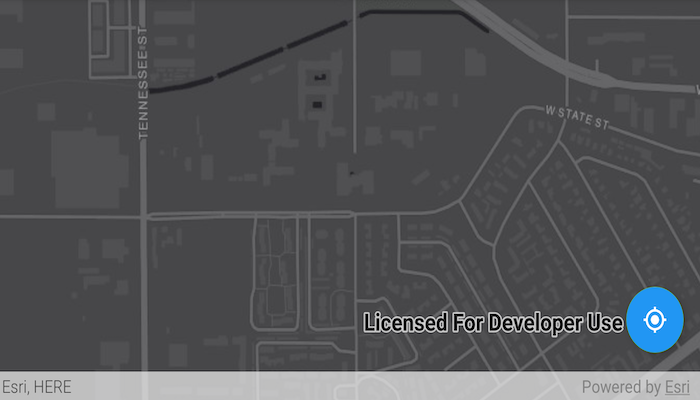
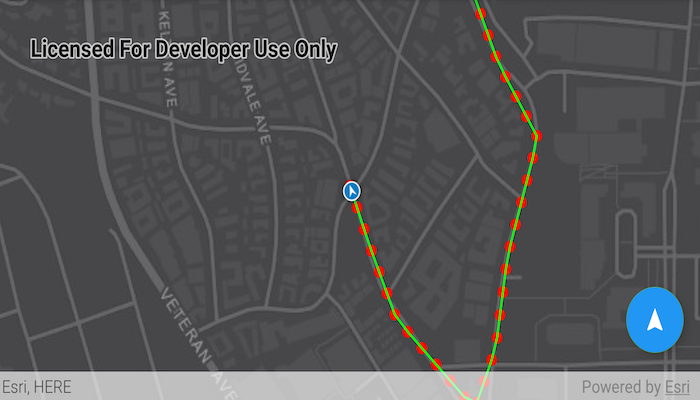
update metadata

diff --git a/kotlin/show-location-history/README.md b/kotlin/show-location-history/README.md
@@ -10,18 +10,19 @@ You can track device location history and display it as lines and points on the 
 
 ## How to use the sample
 
-Tap the floating action button to start tracking your location, which will appear as points on the map. A line will connect the points for easier visualization. Tap the button again to stop updating the location history.
+Tap the floating action button to start tracking your location, which will appear as points on the map. A line will connect the points for easier visualization. Tap the button again to stop updating the location history. This sample uses a simulated data source to allow the sample to be useful on desktop/non-mobile devices. To track a user's real position, use the `DefaultLocationDataSource` instead.
 
 ## How it works
 
 1. If necessary, request location permission from the operating system.
 2. Create a graphics overlay to show each point and another graphics overlay for displaying the route line.
-3. Create a `SimulatedLocationDataSource` and start it to begin receiving location updates.
-4. Use `locationDataSource.addLocationChangedListener {...}` to handle location updates.
-5. Every time the location updates, store that location, display a point on the map, and re-create the route line.
+3. Create a `SimulatedLocationDataSource` and initialize it with a polyline. Start the `SimulatedLocationDataSource` to begin receiving location updates.
+4. Use `simulatedLocationDataSource.addLocationChangedListener {...}` to handle location updates.
+5. Every time the location updates, store that location, display a point on the map, and recreate the route line.
 
 ## Relevant API
 
+* AndroidLocationDataSource
 * Location.position
 * LocationDataSource
 * LocationDataSource.Location
@@ -30,11 +31,11 @@ Tap the floating action button to start tracking your location, which will appea
 * LocationDisplay.AutoPanMode
 * LocationDisplay.LocationDataSource
 * MapView.LocationDisplay
-* AndroidLocationDataSource
+* SimulatedLocationDataSource
 
 ## About the data
 
-The sample uses a dark gray basemap with blue and red graphics. A custom location data source that provides fake/random location data is provided to enable easier testing and allow the sample to be useful on desktop/non-mobile devices.
+A custom set of points is used to create a `Polyline` and initialize a `SimulatedLocationDataSource`. This simulated location data source enables easier testing and allows the sample to be used on devices without an actively updating GPS signal.
 
 ## Tags
 
